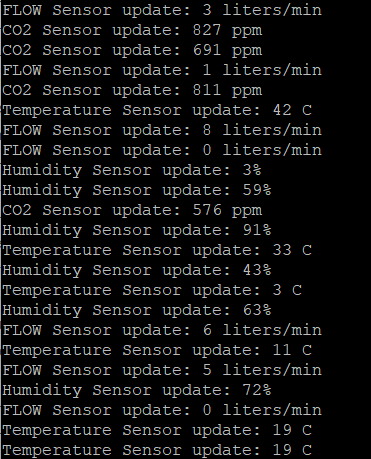
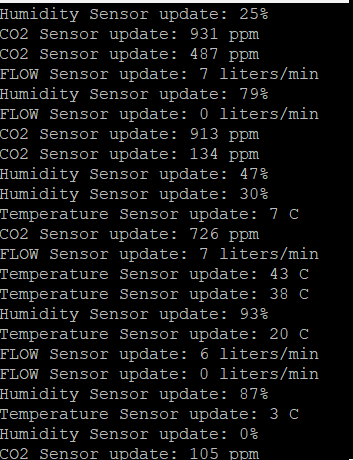
updated docbook

diff --git a/docs/index.html b/docs/index.html
@@ -491,6 +491,7 @@ body.book #toc,body.book #preamble,body.book h1.sect0,body.book .sect1>h2{page-b
 <li><a href="#multi_client_server_with_mailboxes">18.2. Multi-Client Server with mailboxes</a></li>
 <li><a href="#monitor_like_synchronisation_barrier">18.3. Monitor-like: Synchronisation Barrier</a></li>
 <li><a href="#queuing_pattern">18.4. Queuing Pattern</a></li>
+<li><a href="#queueing_pattern_with_notification">18.5. Queueing pattern with notification</a></li>
 </ul>
 </li>
 </ul>
@@ -2296,6 +2297,135 @@ VOID SensorLogging(VOID)
 <div class="imageblock data-line-1259">
 <div class="content">
 <img src="images/queuing.png" alt="queuing">
+</div>
+</div>
+</div>
+<div class="sect2 data-line-1261">
+<h3 id="queueing_pattern_with_notification">18.5. Queueing pattern with notification</h3>
+<div class="paragraph data-line-1263">
+<p>Usage: real-time monitoring</p>
+</div>
+<div class="paragraph data-line-1265">
+<p>On the previous example we increased latency to augment throughput. Suppose a reading task has a worst update rate of 10ms. We can use it to notify a task with a highest rate through a mailbox. The notified task enqueues the message and send it through a queue to the logger task. We use the time-out of the mailbox send notification to guarantee the notifier does not block full for more than our worst rate assumption.
+The overhead of printfs is ignored because they disable interrupts.</p>
+</div>
+<div class="listingblock data-line-1268">
+<div class="content">
+<pre class="highlightjs highlight"><code class="language-none hljs">#include "application.h"
+#include &lt;stdlib.h&gt;
+#include &lt;stdio.h&gt;
+
+INT stack1[STACKSIZE];
+INT stack2[STACKSIZE];
+INT stack3[STACKSIZE];
+
+/* sensor types */
+typedef enum
+{
+	TEMPERATURE = 0, HUMIDITY, CO2, FLOW
+} SensorType_t;
+
+/* message sent through the queue */
+typedef struct sensorMsg
+{
+	SensorType_t sensorType;
+	INT32 sensorValue;
+} Mesg_t;
+
+#define N_MESSAGE 5 /* lower-latency yields a smaller queue */
+#define MESSAGE_SIZE sizeof(Mesg_t)
+
+K_MESGQ mesgQueue;
+K_MBOX mbox;
+
+BYTE queueBuffer[N_MESSAGE * MESSAGE_SIZE];
+
+VOID kApplicationInit(VOID)
+{
+	kMesgQInit(&amp;mesgQueue, (ADDR) queueBuffer, MESSAGE_SIZE, N_MESSAGE);
+	kMboxInit(&amp;mbox, NULL, EMPTY);
+}
+
+VOID ReadNotifyTask(VOID) /* lowest priority task: longest period */
+{
+	SensorType_t sensorType = 0;
+	Mesg_t msg;
+	while (1)
+	{
+
+		sensorType = rand() % 4;
+		switch (sensorType)
+		{
+		case (TEMPERATURE):
+
+			msg.sensorValue = rand() % 50;
+			msg.sensorType = TEMPERATURE;
+			break;
+		case (HUMIDITY):
+			msg.sensorValue = rand() % 100;
+			msg.sensorType = HUMIDITY;
+			break;
+		case (CO2):
+			msg.sensorValue = rand() % 1000;
+			msg.sensorType = CO2;
+			break;
+		case (FLOW):
+			msg.sensorValue = rand() % 10;
+			msg.sensorType = FLOW;
+			break;
+		default:
+			break;
+		}
+
+		K_ERR err = kMboxSend(&amp;mbox, &amp;msg, 2); /* 2-ticks time-out */
+		assert(err == 0); /* &lt;- if time-out, error */
+		kSleepUntil(2);
+	}
+}
+
+VOID NotifiedTask(VOID) /* 1-tick rate */
+{
+	Mesg_t *mailPtr = NULL;
+	K_ERR err;
+	while (1)
+	{
+		err = kMboxRecv(&amp;mbox, (ADDR*) &amp;mailPtr, NULL, K_WAIT_FOREVER);
+		assert(err == 0);
+		if (mailPtr != NULL)
+		{
+			err = kMesgQSend(&amp;mesgQueue, mailPtr, K_WAIT_FOREVER);
+			assert(err == 0);
+			/* after sending it will most often block on the empty mailbox */
+		}
+	}
+}
+
+void LoggingTask(void) /1-tick rate */
+{
+	Mesg_t recvMesg;
+	K_ERR err;
+	while (1)
+	{
+		err = kMesgQRecv(&amp;mesgQueue, &amp;recvMesg, K_WAIT_FOREVER);
+		assert(err == 0);
+
+		if (recvMesg.sensorType == TEMPERATURE)
+			kprintf("[%lu] Temperature Sensor update: %lu C\n\r", kGetTick(
+					recvMesg.sensorValue);
+		if (recvMesg.sensorType == HUMIDITY)
+			kprintf("Humidity Sensor update: %lu%% \n\r", recvMesg.sensorValue);
+		if (recvMesg.sensorType == CO2)
+			kprintf("CO2 Sensor update: %lu ppm\n\r", recvMesg.sensorValue);
+		if (recvMesg.sensorType == FLOW)
+			kprintf("FLOW Sensor update: %lu liters/min\n\r",
+					recvMesg.sensorValue);
+	}
+}</code></pre>
+</div>
+</div>
+<div class="imageblock data-line-1380">
+<div class="content">
+<img src="images/notifyqueue.png" alt="notifyqueue">
 </div>
 </div>
 </div>
